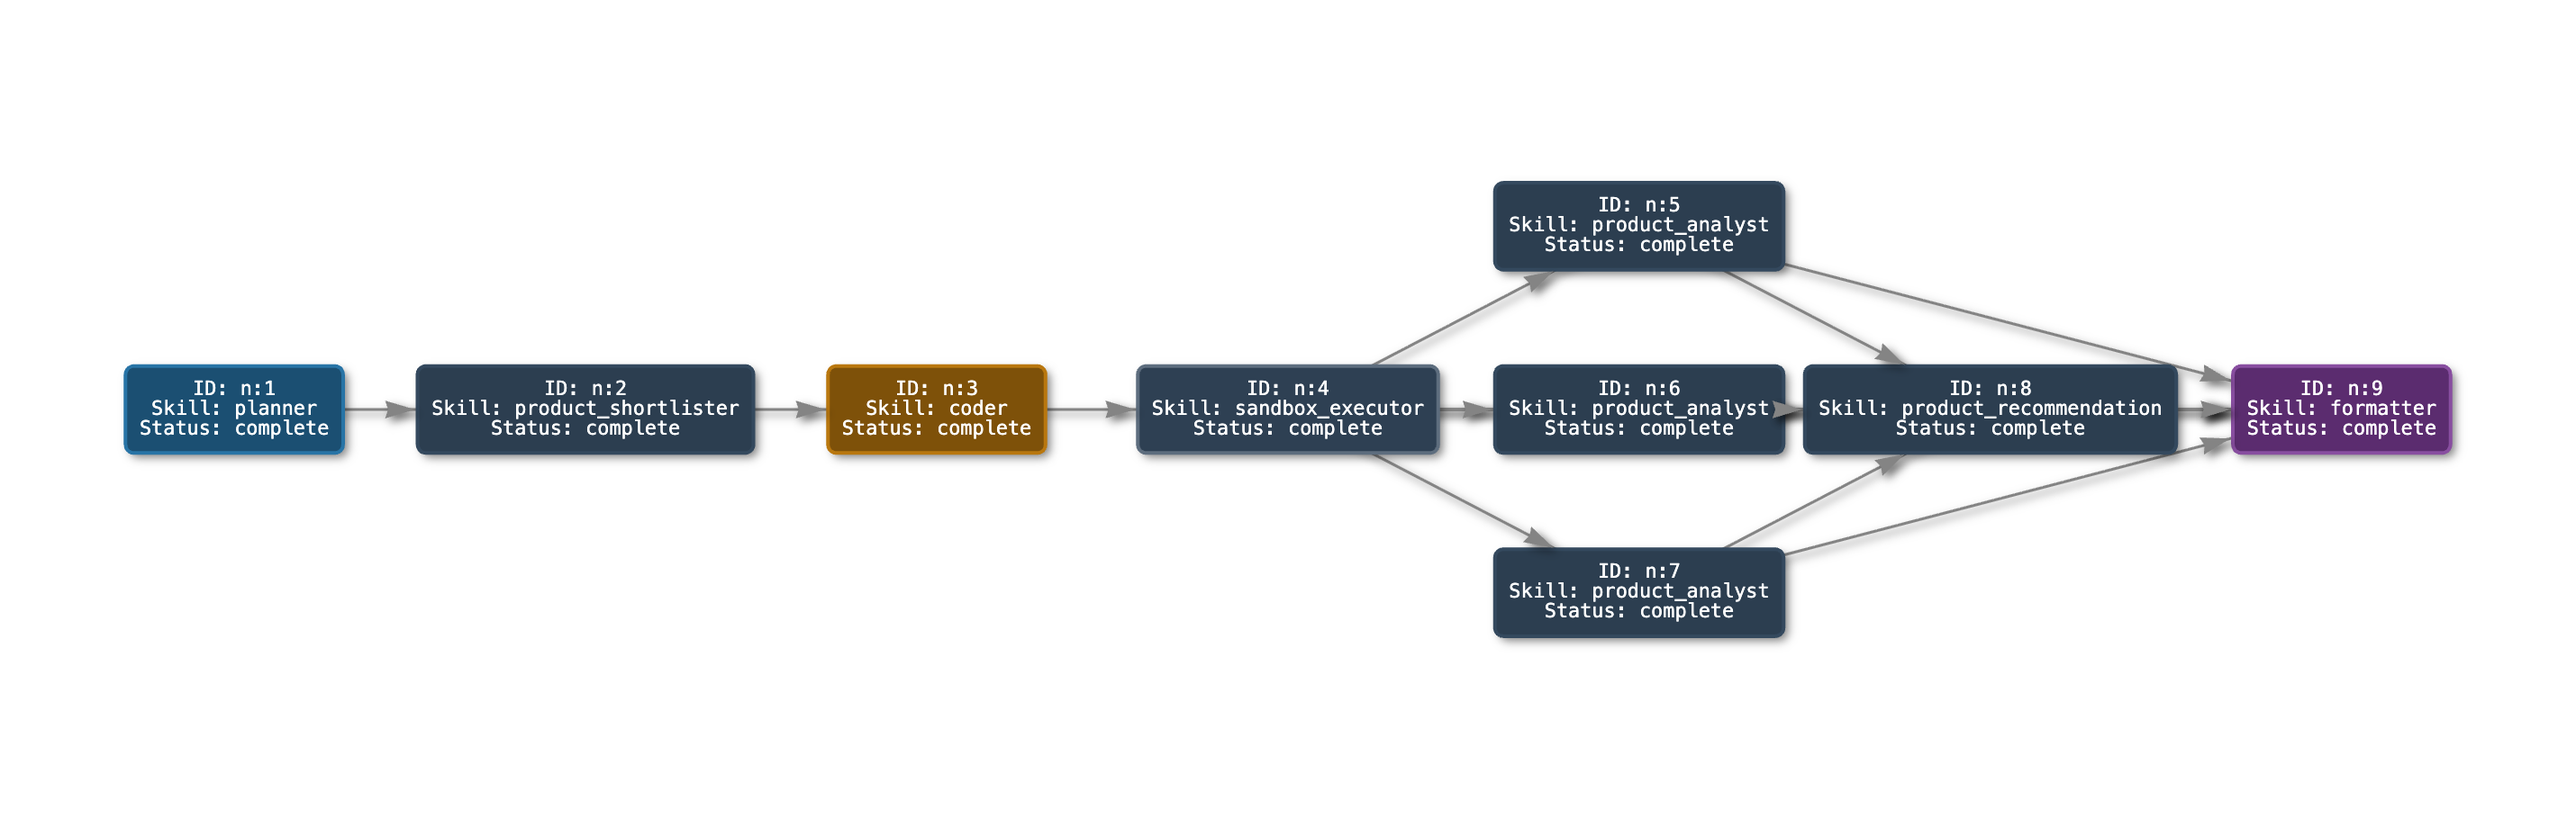
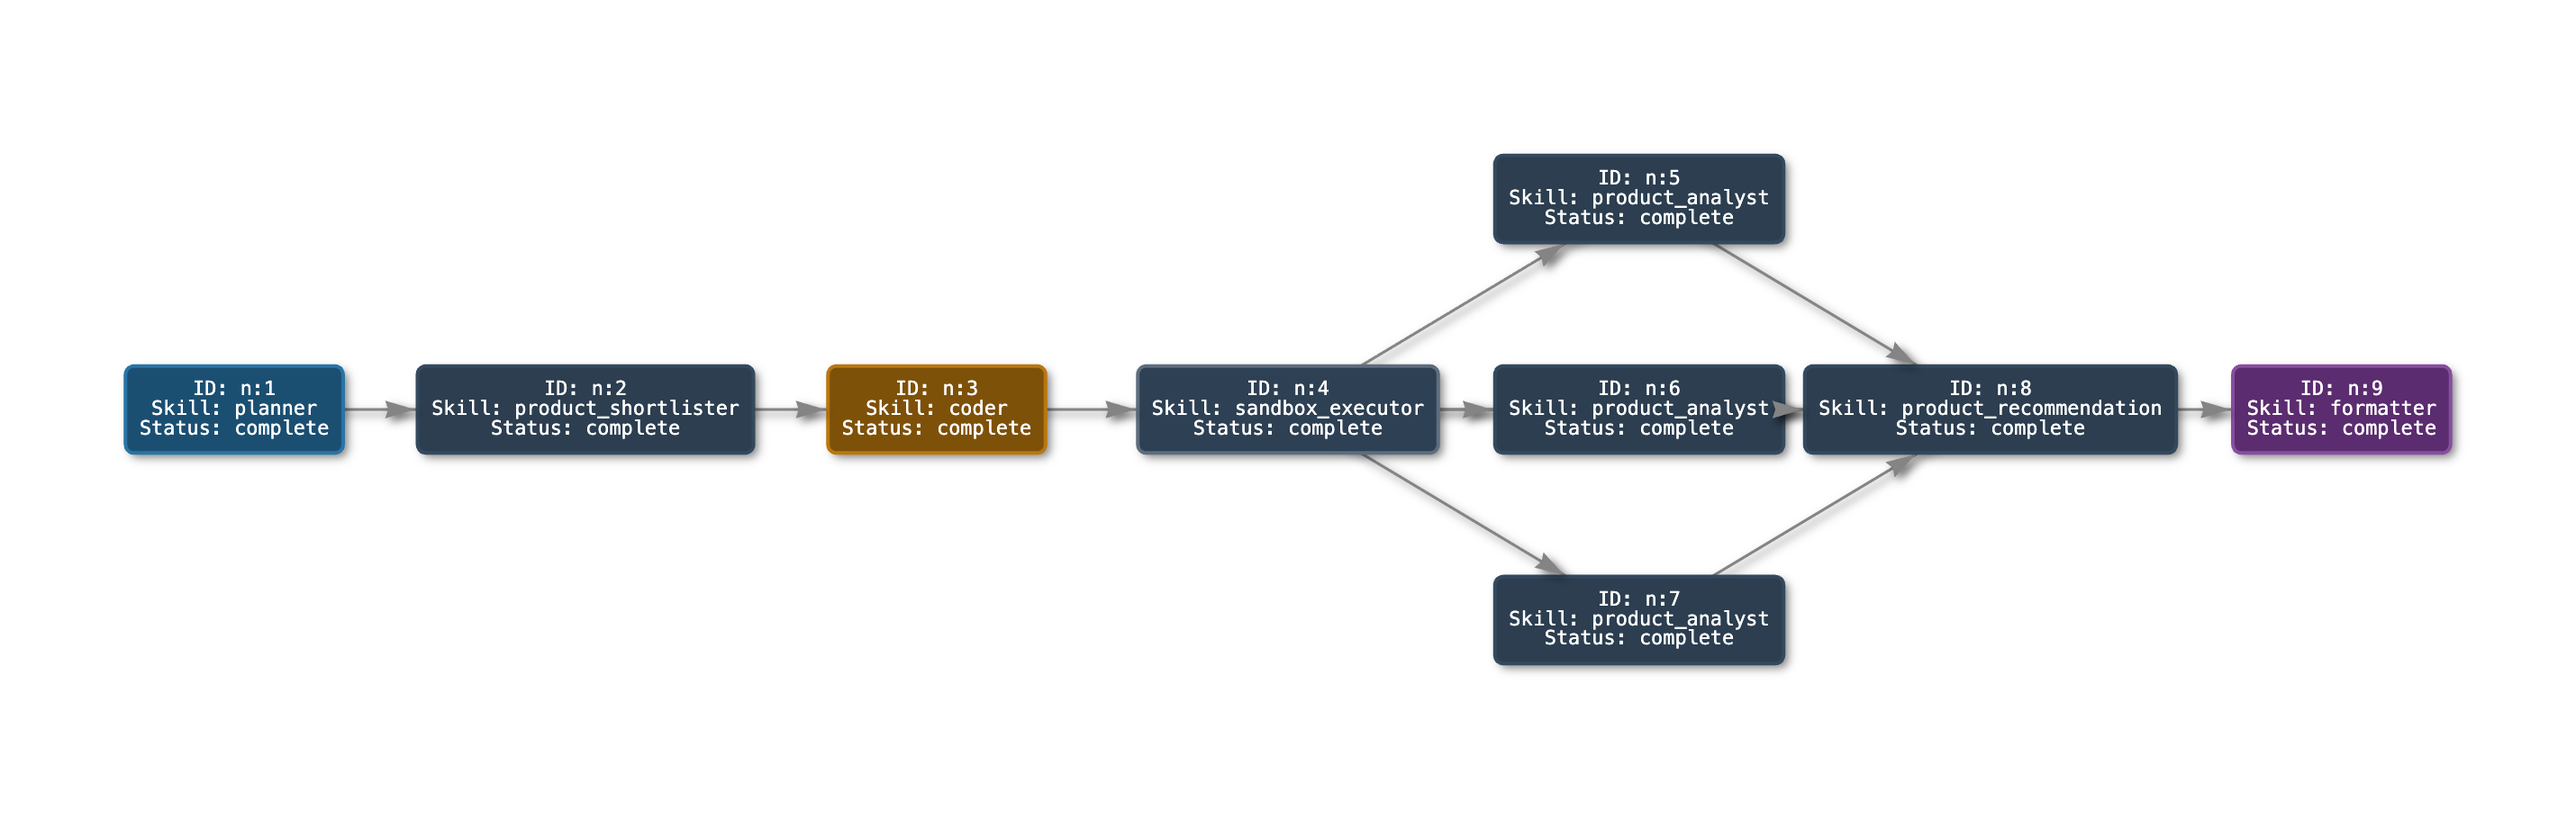
docs: update README with the latest clean shopping agent logs and updated graph diagrams

diff --git a/README.md b/README.md
@@ -58,7 +58,7 @@ This section documents the execution of the main shopping pipeline. Key architec
 
 * **Execution Log**:
 ```text
-session s8-2026-06-05_18-17-10  ─  query: You are a professional Amazon Shopping Assistant. Your task is to perform an analysis of the products requested in the query, identify the top three options based on volume of reviews by searching Amazon, evaluate them, select a "Top Recommendation", and output the final findings in a strict JSON format.
+session s8-2026-06-05_20-11-58  ─  query: You are a professional Amazon Shopping Assistant. Your task is to perform an analysis of the products requested in the query, identify the top three options based on volume of reviews by searching Amazon, evaluate them, select a "Top Recommendation", and output the final findings in a strict JSON format.
 
 If the user query mentions typos like "Batman and brackets" or "brackets", intelligently interpret it as "badminton racquets / rackets".
 
@@ -125,31 +125,31 @@ Your response MUST be a single JSON structure matching this schema exactly, cont
 User Query: bluetooth mouse
 ══════════════════════════════════════════════════════════════════════════════
 [memory.read] 8 hit(s) visible to every skill this run
-[n:1] planner            complete (5.5s)
-[n:2] product_shortlister complete (16.4s)
-[n:3] coder              complete (5.4s)
+[n:1] planner            complete (2.6s)
+[n:2] product_shortlister complete (18.3s)
+[n:3] coder              complete (4.7s)
 [n:4] sandbox_executor   complete (0.0s)
-[n:5] product_analyst    complete (18.8s)
-[n:6] product_analyst    complete (18.8s)
-[n:7] product_analyst    complete (15.8s)
-[n:8] product_recommendation complete (11.4s)
-[n:9] formatter          complete (8.1s)
+[n:5] product_analyst    complete (15.6s)
+[n:6] product_analyst    complete (14.8s)
+[n:7] product_analyst    complete (14.1s)
+[n:8] product_recommendation complete (4.8s)
+[n:9] formatter          complete (4.8s)
 
 ══════════════════════════════════════════════════════════════════════════════
-GATEWAY DATABASE CALLS LOGGED FOR SESSION: s8-2026-06-05_18-17-10
+GATEWAY DATABASE CALLS LOGGED FOR SESSION: s8-2026-06-05_20-11-58
 ══════════════════════════════════════════════════════════════════════════════
-[18:17:17] WORKER       | gemini_lite_2  | gemini-3.1-flash-lite          | OK    | in=7287 out=571 (5532ms)
-[18:17:18] WORKER       | gemini_lite_1  | gemini-3.1-flash-lite          | OK    | in=694 out=31 (635ms)
-[18:17:33] WORKER       | gemini_lite_1  | gemini-3.1-flash-lite          | OK    | in=12792 out=1753 (5369ms)
-[18:17:39] WORKER       | gemini_lite_1  | gemini-3.1-flash-lite          | OK    | in=2459 out=1751 (5399ms)
-[18:17:41] WORKER       | gemini_lite_1  | gemini-3.1-flash-lite          | OK    | in=1519 out=33 (2277ms)
-[18:17:42] WORKER       | gemini_lite_2  | gemini-3.1-flash-lite          | OK    | in=1519 out=33 (2387ms)
-[18:17:42] WORKER       | gemini_lite_3  | gemini-3.1-flash-lite          | OK    | in=1519 out=35 (2565ms)
-[18:17:54] WORKER       | gemini_lite_1  | gemini-3.1-flash-lite          | OK    | in=7009 out=361 (2029ms)
-[18:17:57] WORKER       | gemini_lite_3  | gemini-3.1-flash-lite          | OK    | in=7555 out=371 (3492ms)
-[18:17:58] WORKER       | gemini_lite_2  | gemini-3.1-flash-lite          | OK    | in=7787 out=419 (3702ms)
-[18:18:09] WORKER       | gemini_lite_1  | gemini-3.1-flash-lite          | OK    | in=2853 out=1787 (11357ms)
-[18:18:17] WORKER       | gemini_lite_1  | gemini-3.1-flash-lite          | OK    | in=6011 out=1787 (8106ms)
+[20:12:03] WORKER       | gemini_lite_2  | gemini-3.1-flash-lite          | OK    | in=7561 out=548 (2554ms)
+[20:12:04] WORKER       | gemini_lite_1  | gemini-3.1-flash-lite          | OK    | in=694 out=31 (716ms)
+[20:12:21] WORKER       | gemini_lite_1  | gemini-3.1-flash-lite          | OK    | in=12632 out=1704 (4798ms)
+[20:12:26] WORKER       | gemini_lite_1  | gemini-3.1-flash-lite          | OK    | in=2405 out=1680 (4713ms)
+[20:12:27] WORKER       | gemini_lite_2  | gemini-3.1-flash-lite          | OK    | in=1504 out=33 (670ms)
+[20:12:27] WORKER       | gemini_lite_1  | gemini-3.1-flash-lite          | OK    | in=1504 out=33 (900ms)
+[20:12:27] WORKER       | gemini_lite_3  | gemini-3.1-flash-lite          | OK    | in=1504 out=33 (1166ms)
+[20:12:40] WORKER       | gemini_lite_1  | gemini-3.1-flash-lite          | OK    | in=6726 out=397 (2216ms)
+[20:12:40] WORKER       | gemini_lite_2  | gemini-3.1-flash-lite          | OK    | in=7353 out=332 (2021ms)
+[20:12:41] WORKER       | gemini_lite_3  | gemini-3.1-flash-lite          | OK    | in=7742 out=422 (2130ms)
+[20:12:46] WORKER       | gemini_lite_4  | gemini-3.1-flash-lite          | OK    | in=2838 out=1771 (4807ms)
+[20:12:51] WORKER       | gemini_lite_1  | gemini-3.1-flash-lite          | OK    | in=4081 out=1771 (4807ms)
 
 ══════════════════════════════════════════════════════════════════════════════
 FINAL: {"products": [{"id": "prod_1", "title": "Portronics Toad One Bluetooth Mouse with 2.4 GHz & BT 5.3 Dual Wireless, 6 Buttons, Rechargeable, RGB Lights, Connect 3 Devices, Ergonomic Design for Laptop, Smartphone, Tablet (Black)", "price": "₹499", "rating": 4.3, "reviews_count": 9200, "image_url": "https://m.media-amazon.com/images/I/51hZtBRUFBL._SL1500_.jpg", "url": "https://www.amazon.in/dp/B0BG8LZNYL"}, {"id": "prod_2", "title": "ZEBRONICS Blanc Slim Wireless Mouse with Rechargeable Battery, BT + 2.4GHz, 4 Buttons, 800/1200/1600 DPI, Silent Operation, Multicolor LED Lights", "price": "₹299", "rating": 3.7, "reviews_count": 3400, "image_url": "https://m.media-amazon.com/images/I/51hZtBRUFBL._SL1500_.jpg", "url": "https://www.amazon.in/dp/B0BG8LZNYL"}]}
